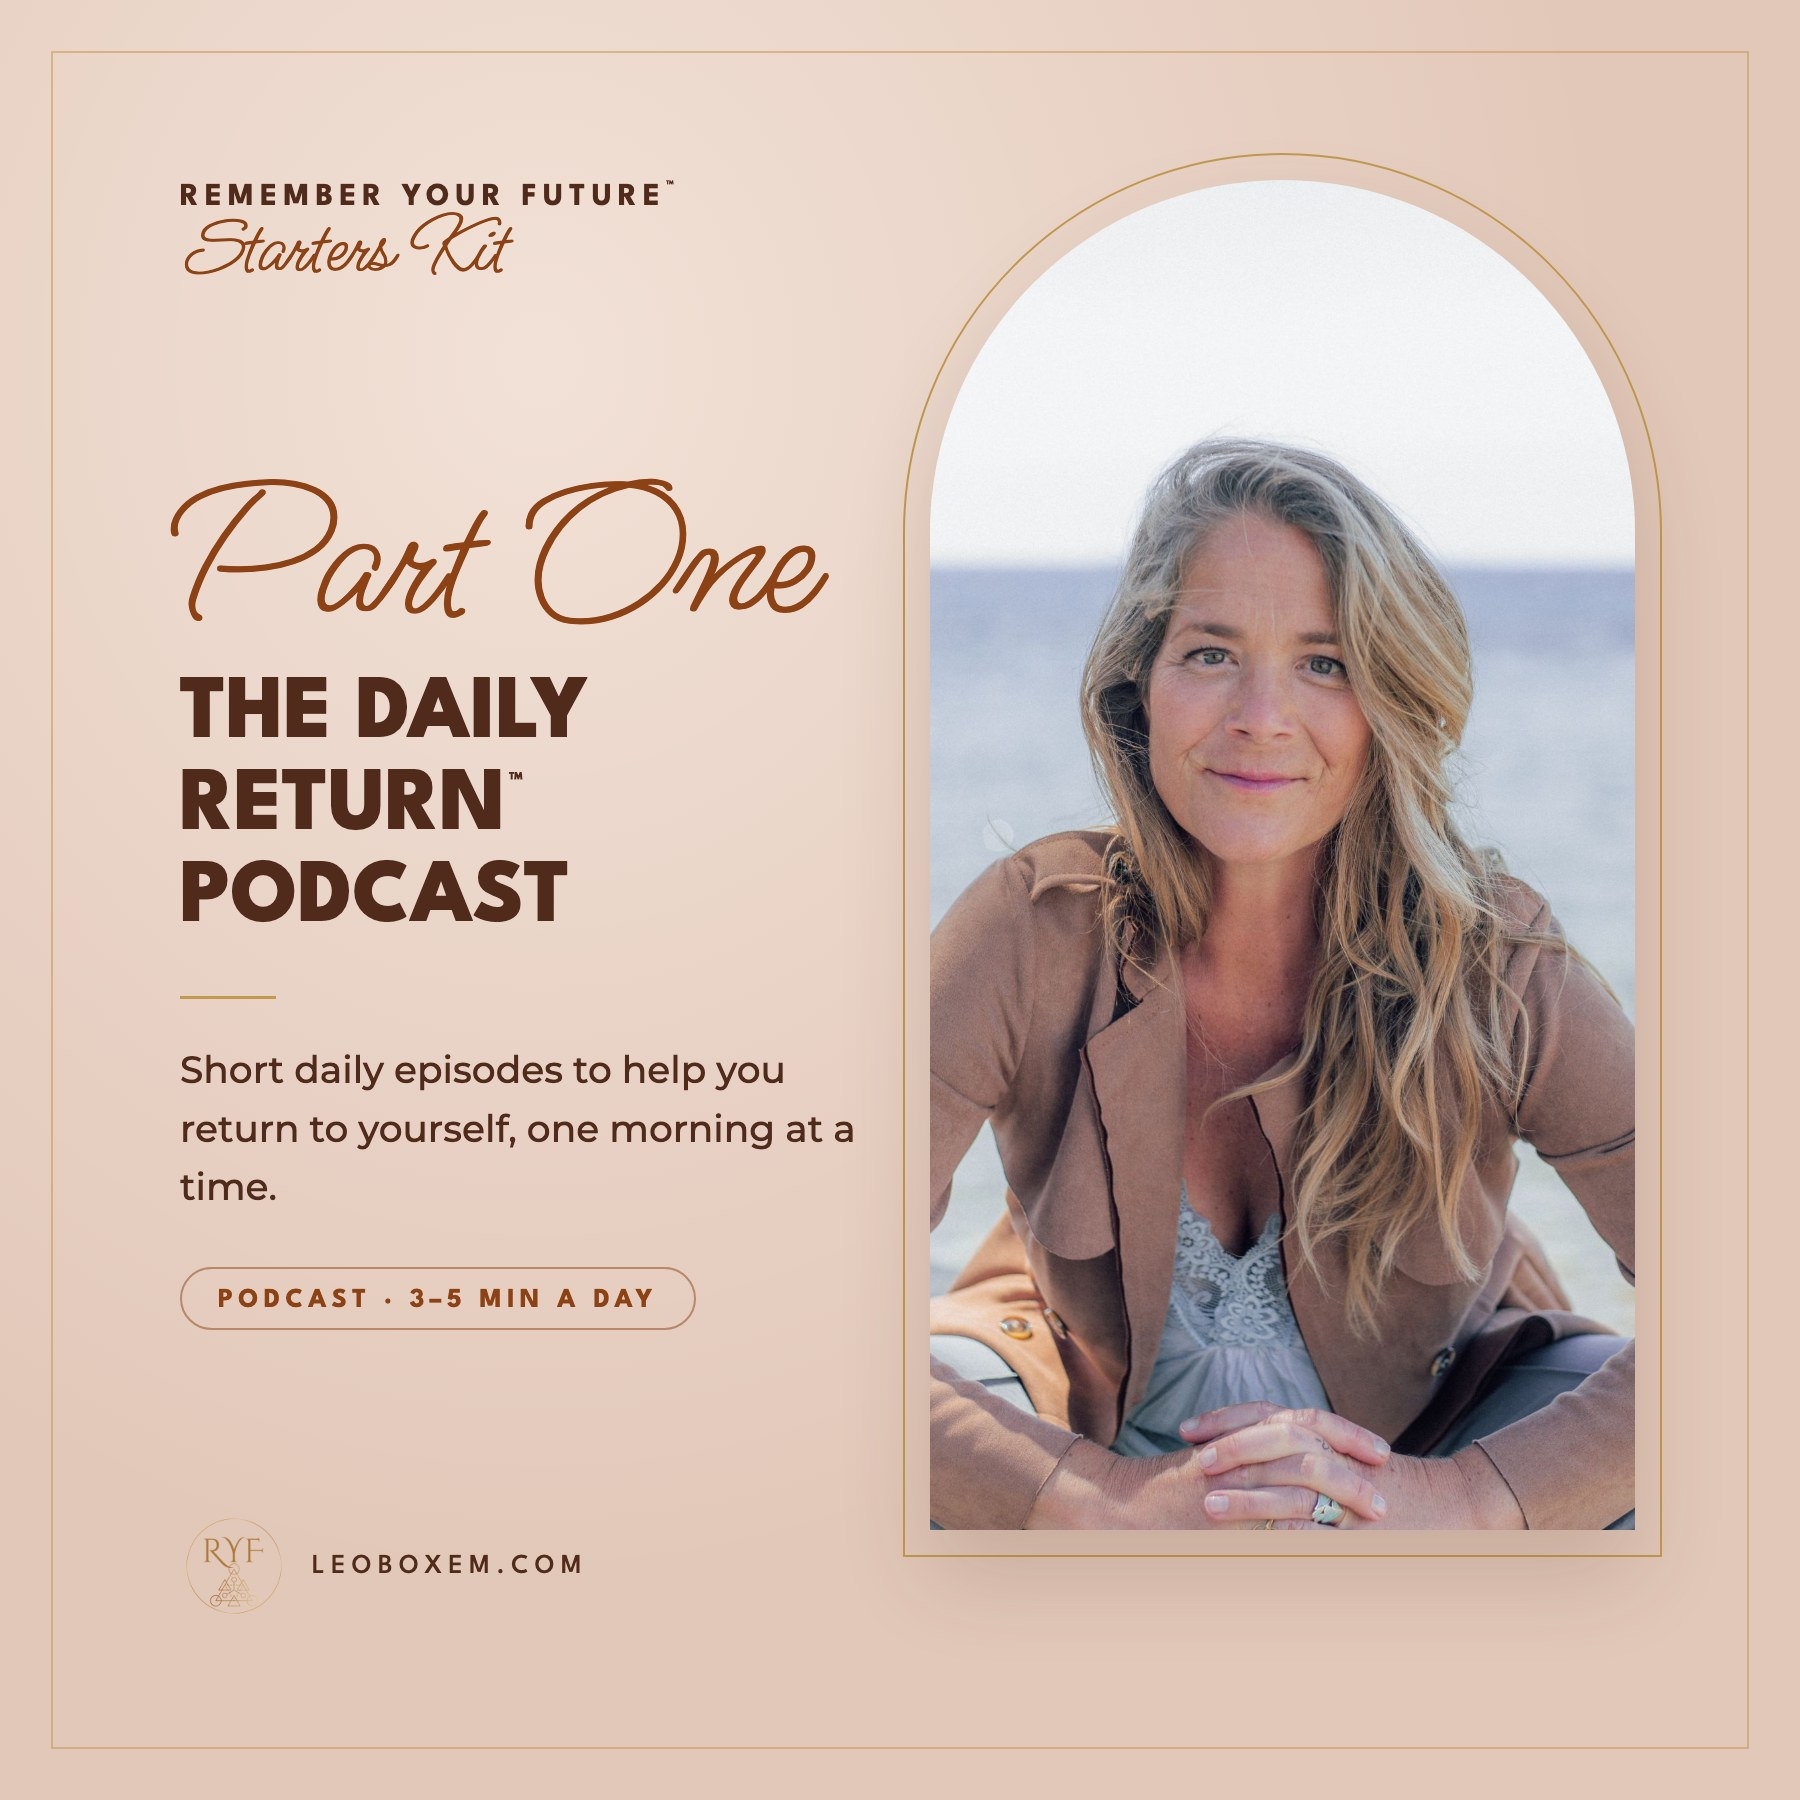
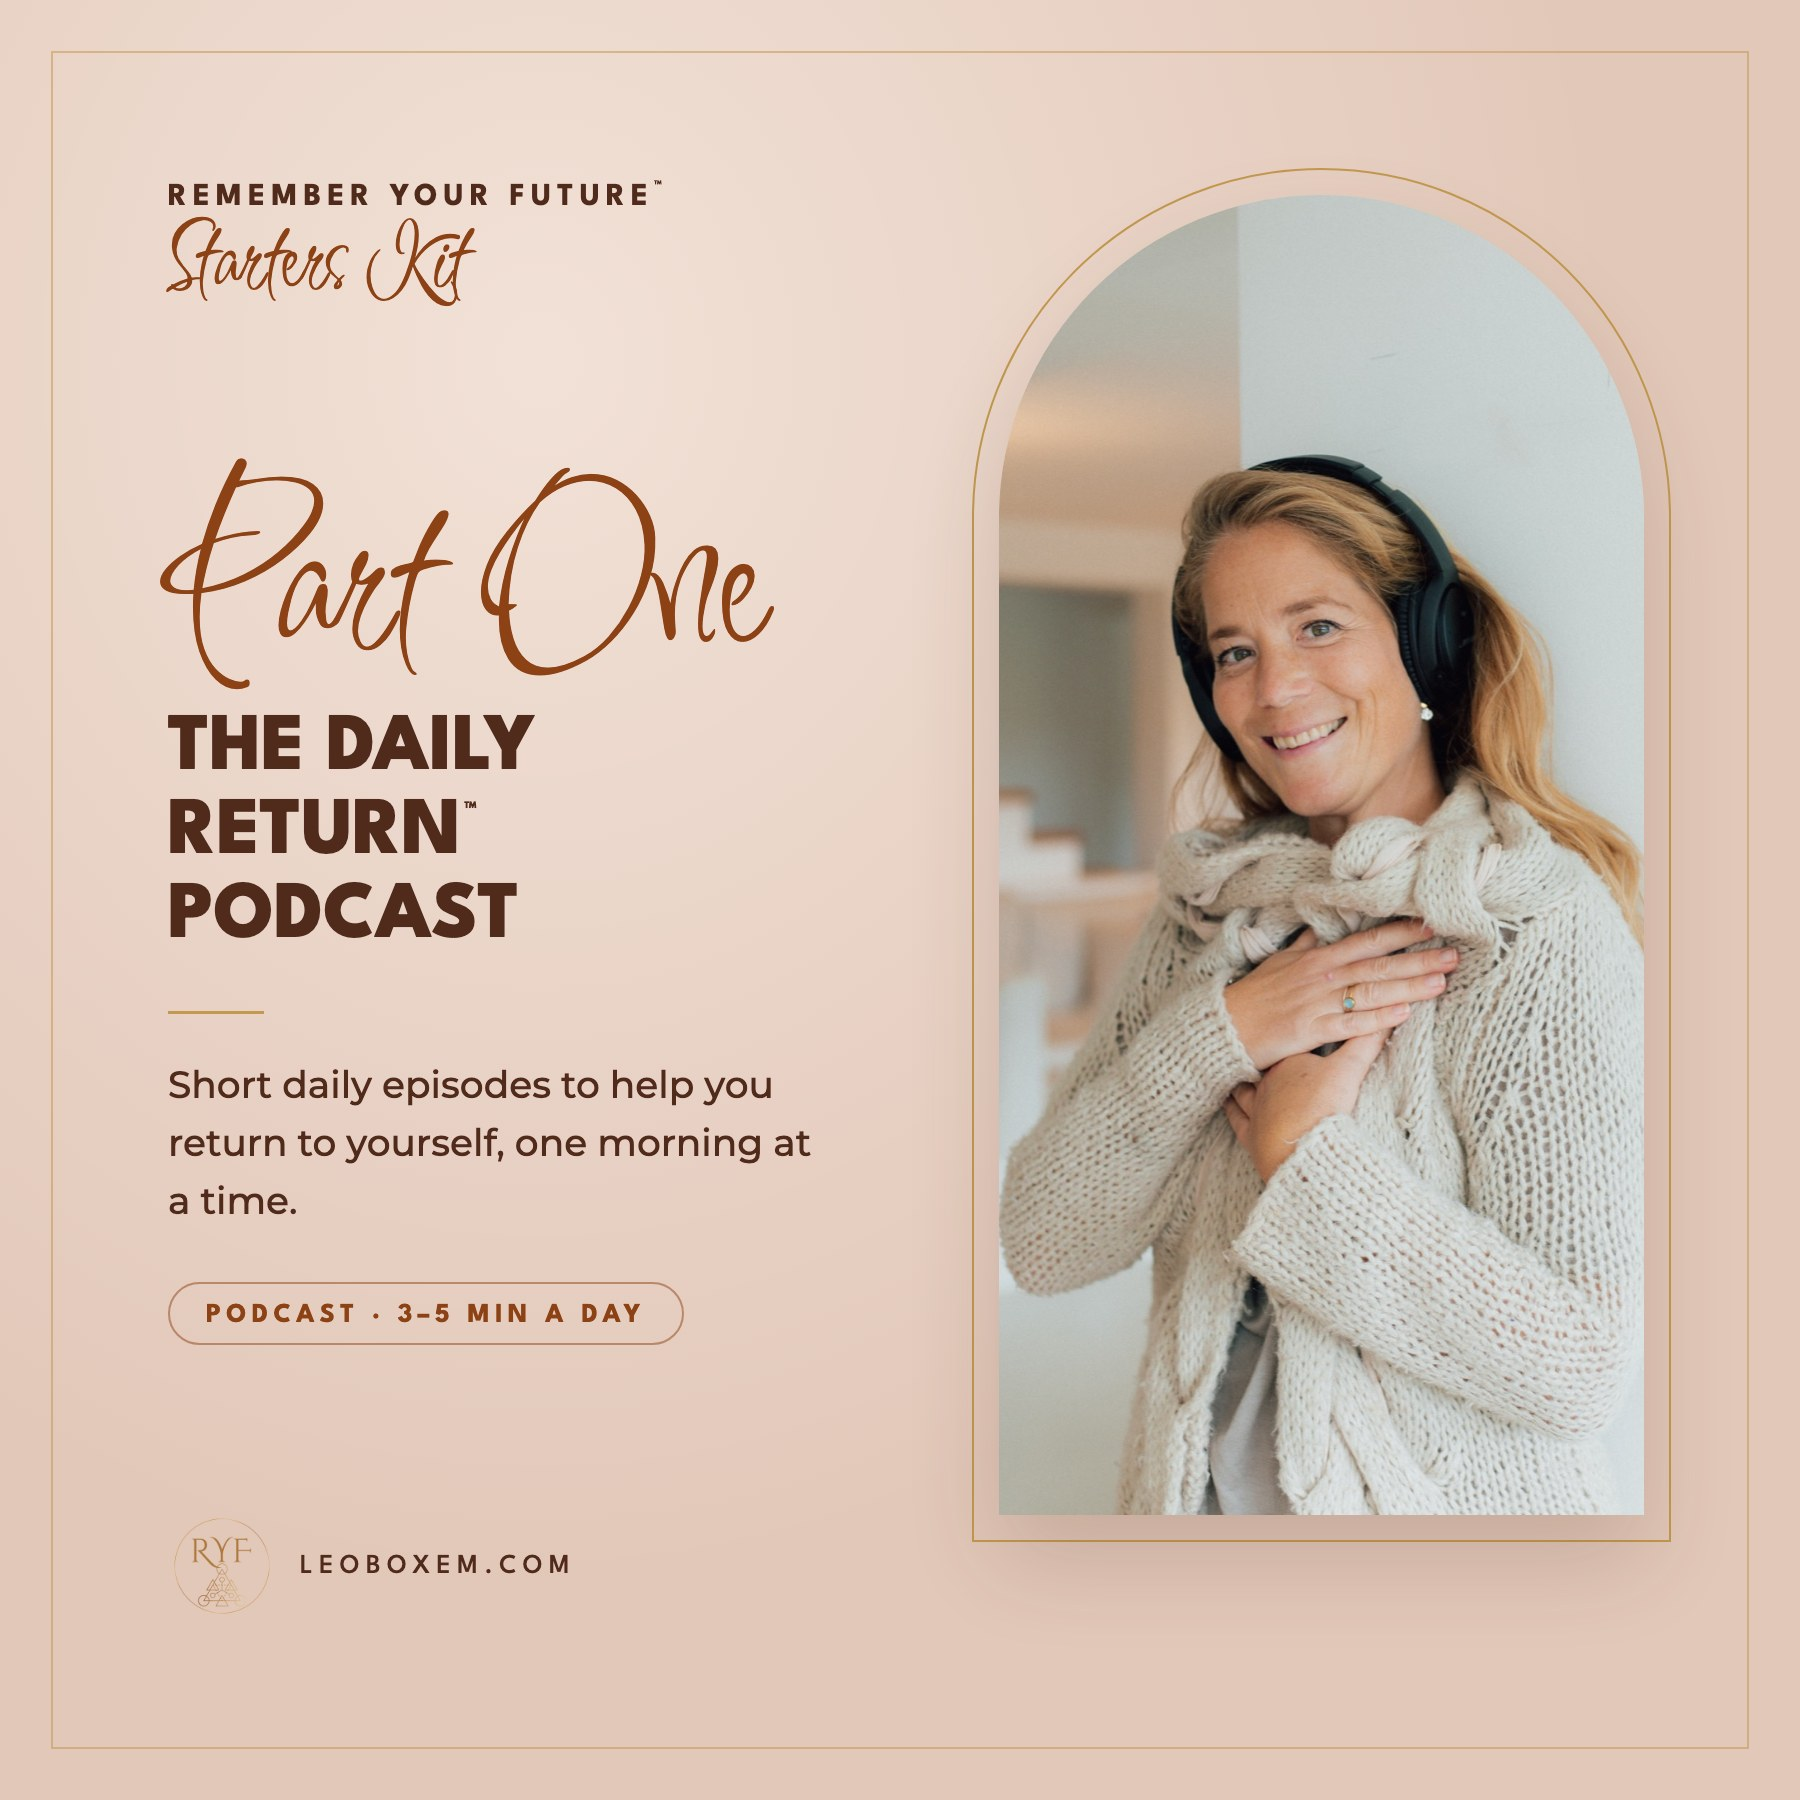
Gift to Remember: Inspiration script accents; redesigned starter kit squares

diff --git a/gift-to-remember/index.html b/gift-to-remember/index.html
@@ -18,7 +18,7 @@
   <link rel="icon" type="image/png" href="../images/ryf-favicon.png">
   <link rel="preconnect" href="https://fonts.googleapis.com">
   <link rel="preconnect" href="https://fonts.gstatic.com" crossorigin>
-  <link href="https://fonts.googleapis.com/css2?family=League+Spartan:wght@400;600;700;800&family=Playfair+Display:ital,wght@0,400;0,500;1,400;1,500&family=Montserrat:ital,wght@0,400;0,500;0,600;0,700;1,400&family=Outfit:wght@500;600;700;800&family=Cormorant+Garamond:ital,wght@0,400;0,500;1,400;1,500;1,700&display=swap" rel="stylesheet">
+  <link href="https://fonts.googleapis.com/css2?family=League+Spartan:wght@400;600;700;800&family=Playfair+Display:ital,wght@0,400;0,500;1,400;1,500&family=Montserrat:ital,wght@0,400;0,500;0,600;0,700;1,400&family=Outfit:wght@500;600;700;800&family=Inspiration&family=Cormorant+Garamond:ital,wght@0,400;0,500;1,400;1,500;1,700&display=swap" rel="stylesheet">
   <script>if(!window.circleFormsScriptLoaded){window.circleFormsScriptLoaded=true;const script=document.createElement('script');script.src='https://leoboxem.circle.so/external/form-embeds.js';script.defer=true;document.head.appendChild(script)}</script>
 
   <style>
@@ -101,7 +101,7 @@
     .intro-inner { max-width: 760px; margin: 0 auto; }
     h1.kit-title { font-family: 'Outfit', sans-serif; font-size: clamp(30px, 4.6vw, 54px); font-weight: 800; line-height: 1.1; letter-spacing: -0.01em; color: var(--dark-brown); text-transform: uppercase; margin-bottom: 28px; }
     h1.kit-title .sub { display: block; font-family: var(--f-head); font-size: 15px; font-weight: 700; letter-spacing: 0.24em; color: var(--red-brown); margin-top: 16px; }
-    h1.kit-title em { display: block; font-family: 'Cormorant Garamond', serif; font-style: italic; font-weight: 500; text-transform: none; font-size: 1.2em; letter-spacing: 0; color: var(--red-brown); margin-top: 6px; }
+    h1.kit-title em { display: block; font-family: 'Inspiration', cursive; font-style: normal; font-weight: 400; text-transform: none; font-size: 1.7em; line-height: 1; letter-spacing: 0; color: var(--red-brown); margin-top: 4px; }
     .intro-text { font-size: clamp(17px, 1.6vw, 19px); line-height: 1.85; color: var(--dark-brown); }
 
     /* 4 — INSIDE LIST: compact 2×2 on desktop, single column on phone */
@@ -119,7 +119,7 @@
     #download { background: var(--blush); text-align: center; scroll-margin-top: 66px; }
     .form-inner { max-width: 600px; margin: 0 auto; }
     #download h2 { font-family: 'Outfit', sans-serif; font-size: clamp(26px, 3.6vw, 42px); font-weight: 700; line-height: 1.15; color: var(--dark-brown); margin-bottom: 14px; }
-    #download h2 em { font-family: 'Cormorant Garamond', serif; font-style: italic; font-weight: 500; font-size: 1.15em; color: var(--red-brown); }
+    #download h2 em { font-family: 'Inspiration', cursive; font-style: normal; font-weight: 400; font-size: 1.6em; line-height: 1; color: var(--red-brown); }
     .form-sub { font-size: 16px; line-height: 1.75; color: var(--dark-brown); margin-bottom: 36px; }
     .form-card { background: var(--white); border-radius: 16px; padding: 40px 36px; box-shadow: 0 14px 40px rgba(80,42,26,.12); text-align: left; }
 
